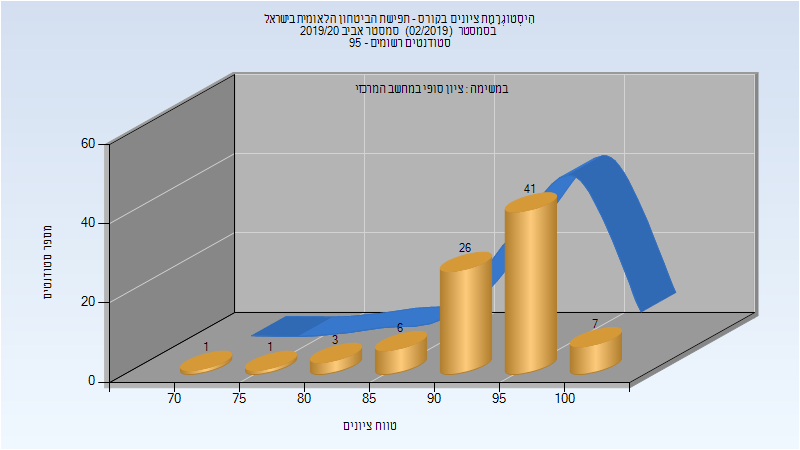
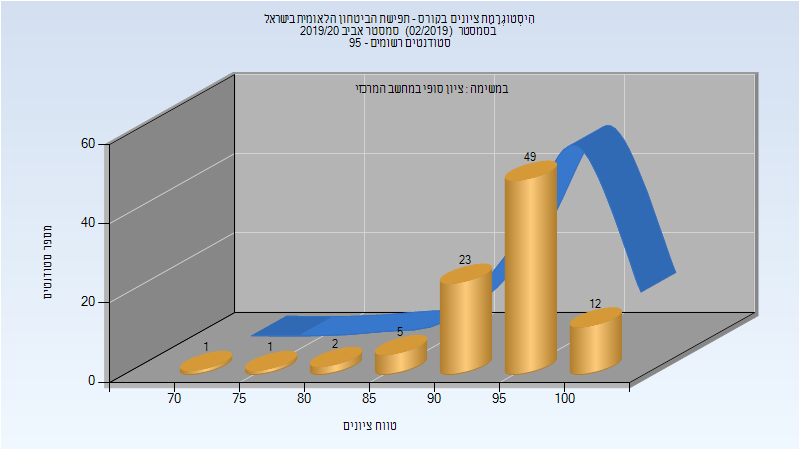
Deploy michael-maltsev/technion-histograms to github.com/michael-maltsev/technion-histograms.git:gh-pages

diff --git a/324978/index.html b/324978/index.html
@@ -229,12 +229,12 @@
 </thead>
 <tbody>
 <tr>
-<td>85</td>
-<td>85/0</td>
+<td>93</td>
+<td>93/0</td>
 <td>100</td>
 <td>70</td>
 <td>100</td>
-<td>93.776</td>
+<td>94.581</td>
 <td>95</td>
 </tr>
 </tbody>

diff --git a/324978/README.md b/324978/README.md
@@ -66,5 +66,5 @@
 
 | סטודנטים | עברו/נכשלו | אחוז עוברים | ציון מינימלי | ציון מקסימלי | ממוצע | חציון |
 | ---- | ---- | ---- | ---- | ---- | ---- | ---- |
-| 85 | 85/0 | 100 | 70 | 100 | 93.776 | 95 |
+| 93 | 93/0 | 100 | 70 | 100 | 94.581 | 95 |
 
